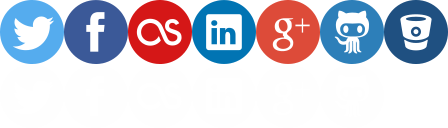
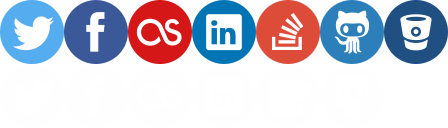
Updates contents

Changed region(s): [[0.5938, 0.0938, 0.7188, 0.4062]]

diff --git a/assets/templates/menu.html b/assets/templates/menu.html
@@ -6,6 +6,7 @@
 				<a id="tw" class="tooltips" target="_blank" title="Twitter" href="https://twitter.com/brunophilipe"><span>Twitter</span></a>
 				<a id="lf" class="tooltips" target="_blank" title="Last.fm" href="https://www.last.fm/user/brunoresende29"><span>Last.fm</span></a>
 				<a id="li" class="tooltips" target="_blank" title="LinkedIn" href="https://www.linkedin.com/pub/bruno-philipe-resende-silva/33/416/ba7"><span>LinkedIn</span></a>
+				<a id="so" class="tooltips" target="_blank" title="Stack Overflow" href="http://stackoverflow.com/users/1470317/bruno-philipe"><span>Stack Overflow</span></a>
 				<a id="gh" class="tooltips" target="_blank" title="GitHub" href="https://www.github.com/brunophilipe"><span>GitHub</span></a>
 				<a id="bb" class="tooltips" target="_blank" title="BitBucket" href="https://bitbucket.org/brunophilipe"><span>BitBucket</span></a>
 			</div>

diff --git a/assets/css/brunophilipe.css b/assets/css/brunophilipe.css
@@ -240,7 +240,7 @@ article.single h2
 .slinks a#fb {background-position: -32px 32px;}
 .slinks a#lf {background-position: -64px 32px;}
 .slinks a#li {background-position: -96px 32px;}
-.slinks a#gp {background-position: -128px 32px;}
+.slinks a#so {background-position: -128px 32px;}
 .slinks a#gh {background-position: -160px 32px;}
 .slinks a#bb {background-position: -192px 32px;}
 
@@ -248,7 +248,7 @@ article.single h2
 .slinks a#fb:hover {background-position: -32px 0px;}
 .slinks a#lf:hover {background-position: -64px 0px;}
 .slinks a#li:hover {background-position: -96px 0px;}
-.slinks a#gp:hover {background-position: -128px 0px;}
+.slinks a#so:hover {background-position: -128px 0px;}
 .slinks a#gh:hover {background-position: -160px 0px;}
 .slinks a#bb:hover {background-position: -192px 0px;}
 
